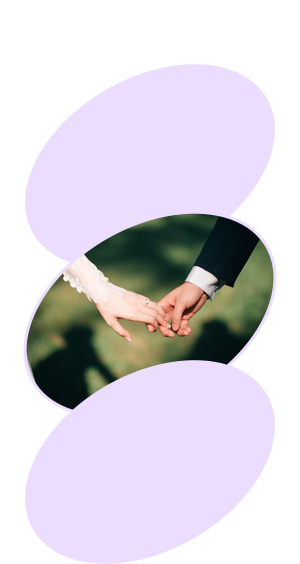
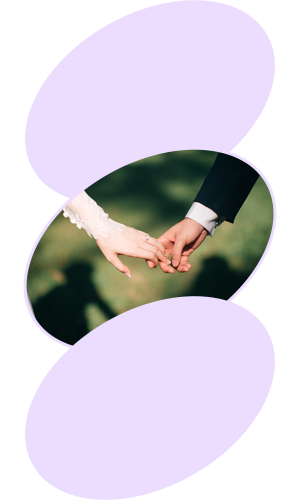
최종 수정
최종 수정

diff --git a/app_work.py b/app_work.py
@@ -12,7 +12,7 @@ from plotly.subplots import make_subplots
 def run_work_app():
     st.title("'맞벌이' 신혼부부 비중")
 
-    st.subheader('연도별 우리나라 총 신혼부부 맞벌이 비중(%)')
+    st.subheader('✤ 연도별 우리나라 총 신혼부부 맞벌이 비중(%)')
 
     df5 = pd.read_csv('./data/newlywed_all.csv')
 
@@ -27,7 +27,7 @@ def run_work_app():
     st.text('')
     st.text('')
 
-    st.subheader('15~21년 신혼 부부의 맞벌이/외벌이 추이(%)')
+    st.subheader('✤ (15-21년) 신혼 부부의 맞벌이/외벌이 추이(%)')
     colors3=px.colors.qualitative.T10
     df5['외벌이 비율 ((A-B)/A*100)']=(df5['신혼부부 수 (A)']-df5['맞벌이 부부 수 (B)'])/df5['신혼부부 수 (A)']*100
     df5['외벌이 비율 ((A-B)/A*100)'] =df5['외벌이 비율 ((A-B)/A*100)'].round(2)
@@ -50,7 +50,7 @@ def run_work_app():
     st.text('')
     st.text('')
 
-    st.subheader('21년 n년차 부부 맞벌이 비중(%)')
+    st.subheader('✤ 21년 n년차 부부 맞벌이 비중(%)')
 
     df6 = pd.read_csv('./data/couple_work.csv')
     
@@ -89,7 +89,7 @@ def run_work_app():
     st.text('')
     st.text('')
 
-    st.subheader('맞벌이 비율과 첫자녀 출산 부부 혼인연도별 비교')
+    st.subheader('✤ 맞벌이 비율과 첫자녀 출산 부부 혼인연도별 비교')
 
     df7=pd.read_csv('./data/couple_baby.csv')
     df7 =df7.rename(columns={'데이터':'첫자녀 출산 부부'})
@@ -128,7 +128,7 @@ def run_work_app():
     st.title('.')
     st.title('.')
 
-    st.subheader('가사분담에 대한 견해')
+    st.subheader('✤ 가사분담에 대한 견해')
 
     df8=pd.read_csv('./data/homework.csv')
 
@@ -145,7 +145,7 @@ def run_work_app():
     st.text('')
     st.text('')
     st.text('')
-    st.subheader('실제 가사 분담은 어떻게 이루어지고 있는지?')
+    st.subheader('✤ 실제 가사 분담은 어떻게 이루어지고 있는지?')
 
     df9=pd.read_csv('./data/homework_real.csv')
 
@@ -160,6 +160,7 @@ def run_work_app():
     st.text('')
     st.text('')
     st.text('')
+    st.subheader('✤ ✤ ')
     st.subheader('가사분담에 대한 견해와 실태 비교')
 
     # 서브플롯을 만들어 두 개의 파이 차트를 나란히 결합

diff --git a/app_house.py b/app_house.py
@@ -20,7 +20,7 @@ def run_house_app():
     st.text('')
     st.text('')
 
-    st.subheader('우리나라 총 신혼부부 주택 소유 비중(%)')
+    st.subheader('✤ 우리나라 총 신혼부부 주택 소유 비중(%)')
 
     df3 = pd.read_csv('./data/house_newlyweds.csv')
 
@@ -47,7 +47,7 @@ def run_house_app():
     st.text('')
     st.text('')
 
-    st.write('15년도와 21년도 신혼부부 주택 소유 비중 비교(%)')
+    st.subheader('✤ 15년도와 21년도 신혼부부 주택 소유 비중 비교(%)')
 
     df34 = df3.loc[(df3['시점']==2021) & (df3['신혼부부 특성별(1)']=='혼인연차별'),['신혼부부 특성별(2)','주택 보유율']]
     df34['주택 보유율']=df34['주택 보유율'].round(2)
@@ -94,7 +94,7 @@ def run_house_app():
     st.text('')
     st.text('')
 
-    st.subheader('21년도 신혼부부 특성별 평균 소득 현황\n(주택소유 여부에 따른 소득 차이)')
+    st.subheader('✤ 21년도 신혼부부 주택소유별 평균 소득 비중 현황\n(주택소유 여부에 따른 소득 차이)')
 
     df4 = pd.read_csv('./data/newlywed_house_salary.csv')
     df4_2 = df4.loc[(df4['시점']==2021),["신혼부부 특성별(2)","데이터"]]

diff --git a/app_char.py b/app_char.py
@@ -19,7 +19,7 @@ def run_char_app():
     st.text('')
     st.text('')
 
-    st.subheader('(2015-2021)우리나라 전국 총 신혼부부(연도별)')
+    st.subheader('✤ (15-21년)우리나라 전국 총 신혼부부(연도별)')
 
     df01 = df.loc[df['행정구역별'] == '전국',['시점','신혼부부 수 (A)']]
 
@@ -36,7 +36,7 @@ def run_char_app():
     st.text('')
     st.text('')
 
-    st.subheader('(2015-2021)우리나라 전국 총 신혼부부 수(시도별)')
+    st.subheader('✤ (15-21년)우리나라 전국 총 신혼부부 수(시도별)')
 
     df02 = df[['시점','행정구역별','신혼부부 수 (A)']]
     df02 = df02.drop(df02[df02['행정구역별'] == '전국'].index,axis=0)
@@ -52,7 +52,7 @@ def run_char_app():
     st.text('')
     st.text('')
 
-    st.subheader('신혼부부 특성별 평균소득 현황')
+    st.subheader('✤ 신혼부부 특성별 평균소득 현황')
 
     df2 = pd.read_csv('./data/newlywed_couple_ income_status.csv')
     df2 = df2.rename(columns={'데이터':'소득 평균(만원)'})

diff --git a/app.py b/app.py
@@ -71,6 +71,9 @@ def main():
     .st-dd {
         background-color: #ffffff;
     }
+    .st-df {
+        background-color: #ffffff;
+    }
 </style>
 """
     st.markdown(css, unsafe_allow_html=True)
@@ -79,9 +82,8 @@ def main():
     menu = ['HOME','우리나라 신혼부부 특성별','신혼부부 주택 소유 비중','맞벌이 신혼부부 비중']
     image = Image.open("./data/mc_img.png")
     
-    st.sidebar.header("대한민국 신혼부부 통계자료 조사")
-    st.sidebar.header("-")
-    choice = st.sidebar.selectbox('메뉴선택',menu)
+    st.sidebar.header("대한민국 신혼부부 통계자료 조사 ✤")
+    choice = st.sidebar.selectbox('menu',menu)
     st.sidebar.image(image)
 
     if choice == menu[0] :

diff --git a/app_home.py b/app_home.py
@@ -7,13 +7,13 @@ def run_home_app():
     st.text('')
     st.text('')
     st.text('')
-    img_url = 'https://images.unsplash.com/photo-1505765052322-75804bb2e5f1?q=80&w=1170&auto=format&fit=crop&ixlib=rb-4.0.3&ixid=M3wxMjA3fDB8MHxwaG90by1wYWdlfHx8fGVufDB8fHx8fA%3D%3D'
+    img_url = './data/mc_img2.png'
 
     st.image(img_url)
     st.text('')
     st.text('')
     st.text('')
-    st.subheader('-')
+    st.title('✤')
     st.subheader('신혼부부통계 작성 대상')
     st.text('▶ 매년 11월 1일 기준')
     st.text('▶ 혼인 신고한 지 5년 이내')
